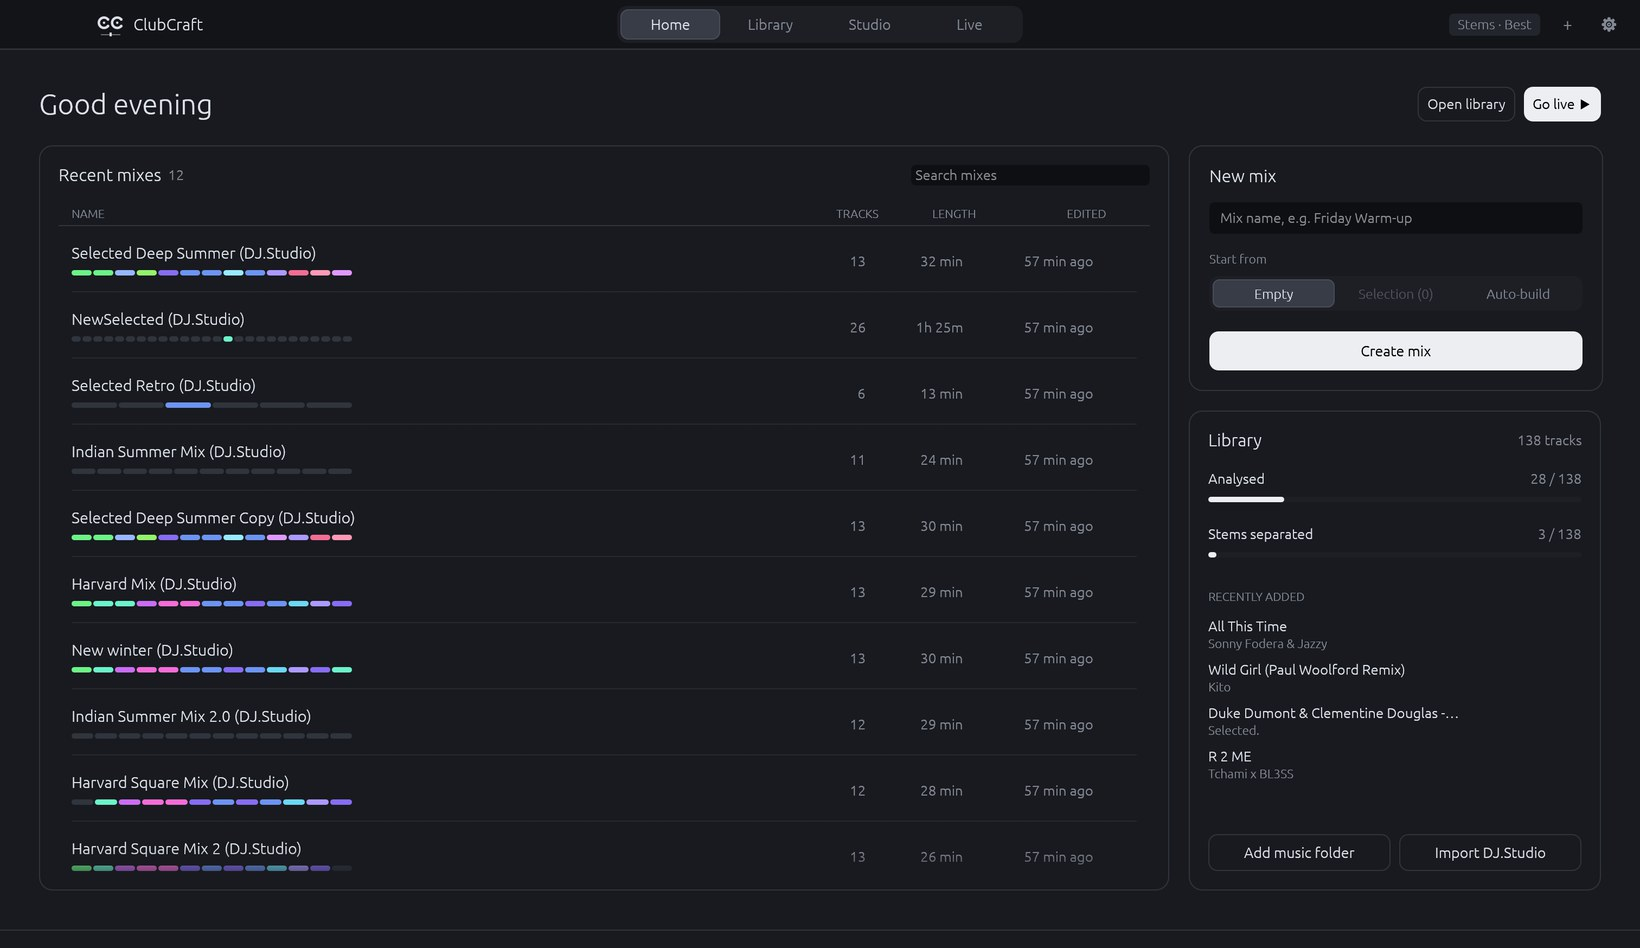
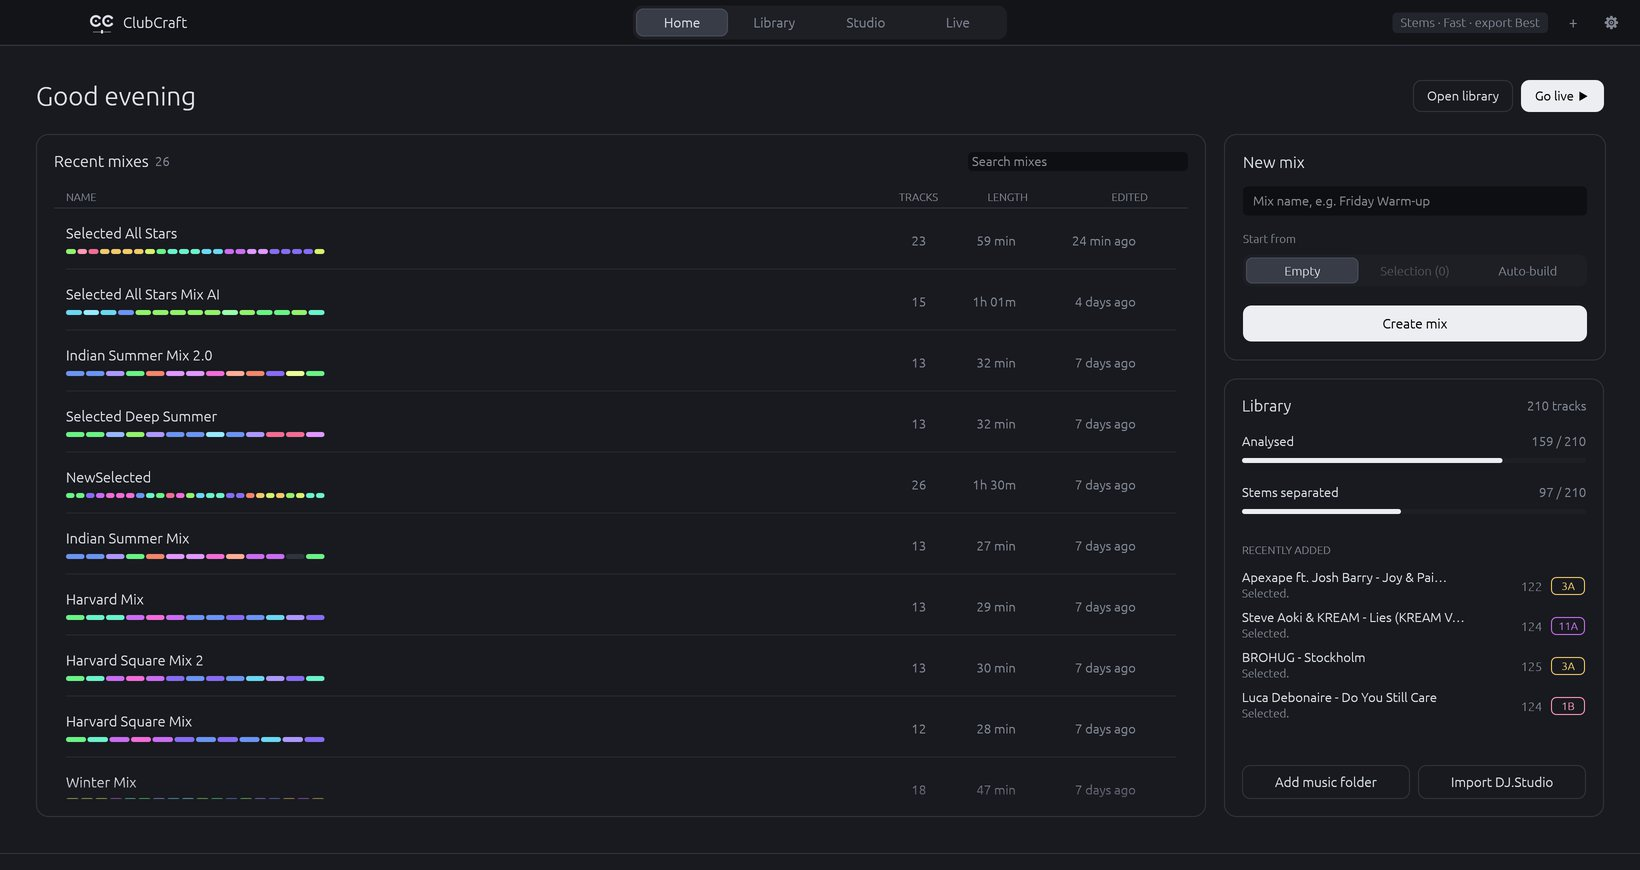
README: new screenshots and the features of v0.3.3
All screenshots retaken on a 23-track mix, and a new one of a vocal sample
with its curves. The text covers sample lanes (linked copies, trimming and
extending, curves, locks), the new transition effects and curve editing,
mashups both ways round, and finer drags.

diff --git a/README.md b/README.md
@@ -21,9 +21,9 @@
 <br>
 
 <p align="center">
-  <img src="docs/images/transition.jpg" alt="The ClubCraft studio zoomed in on the first transition of a 28-minute mix: the outgoing and incoming track on two beat-matched lanes inside the transition frame, and the transition editor below with presets, categories and Off, Swap, Crossfade or Full for drums, bass, melody and vocals" width="100%">
+  <img src="docs/images/transition.jpg" alt="The ClubCraft studio zoomed in on the third transition of a 23-track mix: inside the transition frame both tracks are split into drums, bass, melody and vocals rows, each with its curve and an on/off button, the bass swapping halfway; below, the transition editor with presets, categories and Off, Swap, Crossfade, Full or Manual for every stem" width="100%">
   <br>
-  <sub>A 28-minute mix imported from DJ.Studio, zoomed in on its first stem blend with the transition editor open.</sub>
+  <sub>A 59-minute, 23-track mix zoomed in on a bass swap: every stem of both tracks has its own row and curve, and the transition editor is open below.</sub>
 </p>
 
 <p align="center">
@@ -63,23 +63,23 @@
 
 ## Features
 
-Every screenshot here is the real app at work on a mix imported from DJ.Studio. ClubCraft captures them itself through its developer control channel.
+Every screenshot here is the real app at work on a 23-track mix. ClubCraft captures them itself through its developer control channel.
 
 <table>
   <tr>
     <td width="50%" valign="top">
-      <img src="docs/images/studio.jpg" alt="The studio timeline: two deck lanes with mixer headers (fader, solo, mute, EQ and filter knobs), stem-coloured clips with key badges, transition markers on their own strip, two sample lanes, the tempo lane gliding between 122 and 138 BPM, and the bottom bar with the transport, the Stems missing button and the panel tabs" width="100%">
+      <img src="docs/images/studio.jpg" alt="The studio timeline of a 59-minute mix: two deck lanes with mixer headers (fader, solo, mute, EQ and filter knobs), 23 stem-coloured clips with key badges, transition markers on their own strip, vocal samples on the first sample lane, the tempo lane gliding between 122 and 127 BPM, and the bottom bar with the transport and the panel tabs" width="100%">
       <br>
-      <sub>Two deck lanes with their own mixers, two sample lanes, and the tempo gliding between 122 and 138 BPM.</sub>
+      <sub>A whole set at a glance: two deck lanes with their own mixers, vocal samples on a sample lane, and the tempo gliding between 122 and 127 BPM.</sub>
       <h3>Design the whole set</h3>
       Drop tracks in and <b>✨ Harmonize</b> orders them by Camelot key, tempo and energy arc, using simulated annealing over the whole set. Mix-in and mix-out points come from the analysed structure, and transition lengths fit the intro and outro of each pair.
       <br><br>
-      Slide tracks and transitions by bars, collapse lanes, solo or mute them, shape a lane with its EQ and filter, and render the result to WAV with a cue sheet, faster than real time. Everything else lives in a DJ.Studio-style bar at the bottom: the transport, plus tabs for Zoom, Playlist (a sortable track table with keys, harmonic matches, energy and BPM), Transition, Track, Mashups and Master. Two <b>sample lanes</b> take one-shots, loops and FX dropped from Finder. Drag across a track's waveform to select a range and right-click to copy it to a sample lane: the full sound, or just its drums, bass, melody, vocals, instrumental or drums + bass (⌘L, ⇧⌘1–6). The copy is stretched and key-shifted like the mix plays it, or you can save it as a WAV. Every edit can be undone, and <b>savepoints</b> keep versions of a mix to switch between (none is lost on the way); <b>Duplicate</b> copies a mix to try something out.
+      Slide tracks by bars and transitions by beats (finer when you zoom in, Shift for free moves), select several clips with a box or Shift-click, collapse lanes, solo or mute them, shape a lane with its EQ and filter, and render the result to WAV with a cue sheet, faster than real time. Everything else lives in a DJ.Studio-style bar at the bottom: the transport, plus tabs for Zoom, Playlist (a sortable track table with keys, harmonic matches, energy and BPM; tracks joined by locked transitions are linked and drag as one group), Transition, Track, Mashups and Master. Every edit can be undone, and <b>savepoints</b> keep versions of a mix to switch between (none is lost on the way); <b>Duplicate</b> copies a mix to try something out.
     </td>
     <td width="50%" valign="top">
-      <img src="docs/images/live.jpg" alt="The live view during an automix transition: two scrolling stem-coloured waveforms in phase, deck A playing Define (Club Mix) and deck B Alone, both at 122.5 BPM with eight auto-generated hot cues, the mixer in the middle with the automix moving the channel faders, and the browser with the automix queue below" width="100%">
+      <img src="docs/images/live.jpg" alt="The live view playing a studio mix with automix: two scrolling stem-coloured waveforms, deck A playing MK - 17 at 122 BPM and deck B cued at the Mix In of Do You Still Care, both with eight auto-generated hot cues, the mixer in the middle with AUTOMIX on, and the browser with the mix's tracks and the automix queue below" width="100%">
       <br>
-      <sub>Automix in the middle of a transition: both decks phase-locked, every hot cue placed by the analysis.</sub>
+      <sub>A studio mix on the live decks: automix plays it at its mix points, and every hot cue was placed by the analysis.</sub>
       <h3>Then play it live</h3>
       VirtualDJ-style decks: CDJ cue logic, eight hot cues, loops and loop rolls, beat jump, slip, keylock, key shift and match key, sync with a phase meter, stem knobs and pads (acapella, instrumental, drums only), three-band EQ with kill, filter and beat-synced FX.
       <br><br>
@@ -88,7 +88,7 @@ Every screenshot here is the real app at work on a mix imported from DJ.Studio. 
   </tr>
   <tr>
     <td width="50%" valign="top">
-      <img src="docs/images/library.jpg" alt="The library sorted by BPM: tracks with stems marked by a green dot, BPM, Camelot key, energy, length and the number of generated cues" width="100%">
+      <img src="docs/images/library.jpg" alt="The library showing a mix's 23 tracks in mix order: tracks with stems marked by a green dot, BPM, Camelot key, energy, length, genre and the number of generated cues" width="100%">
       <br>
       <sub>The library: BPM, key, energy and cues for every analysed track.</sub>
       <h3>A library that analyses itself</h3>
@@ -97,7 +97,7 @@ Every screenshot here is the real app at work on a mix imported from DJ.Studio. 
       Imports your <b>DJ.Studio</b> projects: mix points, cues, transitions with their curves, stem automation and DJ.Studio's timing. The importer is built clean-room, from DJ.Studio's own files and exports only ([how it works](docs/interop/djstudio.md)). Exports beat grids, keys, hot cues and automix points to <b>VirtualDJ</b>.
     </td>
     <td width="50%" valign="top">
-      <img src="docs/images/home.jpg" alt="The home page: recent mixes as a searchable list with their key colours, track count, length and last edit on the left; a New mix panel (start empty, from selected tracks, a playlist or auto-built from the library) and the library status with analysis and stem progress and recently added tracks on the right" width="100%">
+      <img src="docs/images/home.jpg" alt="The home page: recent mixes as a searchable list with their key colours, track count, length and last edit on the left; a New mix panel (start empty, from selected tracks or auto-built from the library) and the library status with analysis and stem progress and recently added tracks on the right" width="100%">
       <br>
       <sub>The home page: recent mixes on the left, a new mix and the library status on the right.</sub>
       <h3>Start anywhere</h3>
@@ -114,13 +114,28 @@ Every screenshot here is the real app at work on a mix imported from DJ.Studio. 
     </td>
     <td width="50%" valign="top">
       <h3>Transitions you can read</h3>
-      Pick a preset (Stem blend, Bass swap, Crossfade, Vocal over, Mashup, Filter out, Echo out, Cut), then adjust it the way DJ.Studio does it: for every stem <b>Off · Swap · Crossfade · Full</b>, the same for each EQ band, plus volume, filter and echo choices. Or draw it in the timeline, like in DJ.Studio: a selected transition splits both tracks into drums, bass, melody and vocals rows, each with its curve. Press on a line to add a point, drag points (they stop at their neighbours; double-click removes one), slide a hard switch sideways by its edge, and switch a stem off on either side with its button. The same works for the volume, each EQ band and the filter. Drag a transition's bar to move it by beats (Shift: quarter beats) and its edges to change its length; the curves keep their shape. Lock a transition and harmonizing or recomputing mix points leaves it alone.
+      Pick a preset (Stem blend, Bass swap, Crossfade, Vocal over, Filter out, Echo out, Cut, and Mashup with the old or the new vocals), then adjust it the way DJ.Studio does it: for every stem <b>Off · Swap · Crossfade · Full</b>, the same for each EQ band, plus volume and effects: filter, echo, reverb and noise risers, and <b>Rhythm FX</b> with loops and rolls, a vinyl brake and a side-chain pump. They play in the preview, the export and automix, with or without stems.
+      <br><br>
+      Or draw it in the timeline, like in DJ.Studio: a selected transition splits both tracks into drums, bass, melody and vocals rows, each with its curve, and the effects it uses get a row each. Press on a line to add a point, drag points between their neighbours, bend a slope by its handle, double-click a slope to make it a hard switch, ⌘-drag to draw flat steps on the grid, and switch a stem off on either side with its button. A hard switch slides sideways as one, and the other track's switch goes along, so a swap stays a swap. The same works for the volume and each EQ band. Drag a transition's bar to move it and its edges to change its length; the curves keep their shape. Lock a transition and harmonizing or recomputing mix points leaves it alone.
       <br><br>
       To switch stems off in any part of a song, drag across the waveform and right-click: mute drums, bass, melody or vocals there, or make that part an acapella or an instrumental.
       <br><br>
       Stems for a mix's stem transitions are separated automatically, only for the transition windows and at the Fast quality, so they are ready in seconds per transition. Until then the stem curves are imitated with volume and EQ: each transition keeps its own shape, and the timeline shows it marked "no stems". An export separates those windows again at the export quality first, not the whole tracks, so a Best export takes a fraction of the time. The editor also warns when the outgoing track fades out before its transition ends, or when the incoming track comes in much quieter.
+    </td>
+  </tr>
+  <tr>
+    <td width="50%" valign="top">
+      <img src="docs/images/samples.jpg" alt="A vocal sample on the first sample lane under a transition: the clip, copied from Come Find Me and locked to it, is selected and shows its volume curve fading in and out over its waveform, with a selector for Volume, Low, Mid, High and Effects in its title bar" width="100%">
+      <br>
+      <sub>The vocals of a track copied to a sample lane, locked to it and faded in with their own volume curve.</sub>
+      <h3>Samples that follow the music</h3>
+      Two <b>sample lanes</b> take one-shots, loops and FX dropped from Finder. Drag across a track's waveform to select a range and right-click to copy it to a sample lane: the full sound, or just its drums, bass, melody, vocals, instrumental or drums + bass (⌘L, ⇧⌘1–6). The copy is stretched and key-shifted like the mix plays it, or you can save it as a WAV.
+      <br><br>
+      A copy stays linked to its track. Drag its edges to cut it shorter or to bring in more of the track before or after it. When the track gets better stems (or an export separates that part at the export quality), the clip is cut again from them. It's locked to its track, so it moves along when the track moves in the mix. Every clip has its own volume, EQ, filter and effect curves, drawn like a transition's, and each sample lane plays through a channel strip of its own.
+    </td>
+    <td width="50%" valign="top">
       <h3>Keyboard first</h3>
-      <b>Studio:</b> Space play · ← → bar (⇧ 8 bars) · [ ] transitions · F follow · + − zoom · ⌘Z / ⇧⌘Z undo / redo · ⌘S save.<br>
+      <b>Studio:</b> Space play · ← → bar (⇧ 8 bars) · [ ] transitions · F follow · + − zoom · ⌘Z / ⇧⌘Z undo / redo · ⌘S save · ⌫ remove the selection.<br>
       <b>Live:</b> Z X C and M , . cue/play/sync · 1–8 hot cues (⇧ deck B) · ← → crossfader.<br>
       MIDI controllers map with MIDI learn.
     </td>
@@ -131,13 +146,14 @@ Every screenshot here is the real app at work on a mix imported from DJ.Studio. 
 
 ## Find mashups
 
-<p align="center"><img src="docs/images/mashups.jpg" alt="The mashup finder in the studio's bottom section: the vocals of Gorgon City's Mitsubishi matched against the library; every row shows the instrumental's bars, the vocal phrase, the key shift and tempo change, a strip with the fit of every bar, the rule score and the AI score, with preview, new mix and insert buttons" width="100%"></p>
+<p align="center"><img src="docs/images/mashups.jpg" alt="The mashup finder in the studio's bottom section: the vocals of MK and Clementine Douglas' Come Find Me matched against the library; every row shows where in the instrumental it goes (bars, time and section, such as a drop), the chorus it uses, the key shift and tempo change, a strip with the fit of every bar, the rule score and the AI score, with preview, new mix and insert buttons" width="100%"></p>
 
-Want the vocals of one track over another? The **🎤 Mashups** tab of the studio's bottom bar opens the finder. You can also start it from the track inspector, the library's context menu or ⇧⌘M. It searches your library for the instrumentals that carry those vocals, and tells you where.
+Want the vocals of one track over another? The **🎤 Mashups** tab of the studio's bottom bar opens the finder. You can also start it from the track inspector, the library's context menu or ⇧⌘M. It searches your library both ways round: the instrumentals that carry a track's vocals, or the vocals that fit over its instrumental. And it tells you where.
 
-- **Where it fits, bar by bar.** For every 16-bar placement it compares the vocal notes with the instrumental's bass and chords, using a consonance table that knows a vocal a major seventh above a chord is colour but a semitone above it clashes. It also weighs masking by a loud melody in the vocal range, leftover vocals of the backing track, and the tempo and key change needed. On real tracks the original pairing beats its own ±1–2 semitone shifts 93 % of the time, where plain key matching or chroma similarity (as in AutoMashUpper) manages 84 %.
+- **Whole phrases in the right place.** It takes whole sung phrases (the chorus first, found by the structure model) and tries them where the other track's sections start: a chorus on a drop, a verse on a breakdown or groove, never on an intro or outro.
+- **Where it fits, bar by bar.** For every placement it compares the vocal notes with the instrumental's bass and chords, using a consonance table that knows a vocal a major seventh above a chord is colour but a semitone above it clashes. It also weighs masking by a loud melody in the vocal range, leftover vocals of the backing track, and the tempo and key change needed. On real tracks the original pairing beats its own ±1–2 semitone shifts 93 % of the time, where plain key matching or chroma similarity (as in AutoMashUpper) manages 84 %.
 - **An AI second opinion.** The best 20 candidates are rendered as the mix would play them, with the vocals shifted and stretched, and [COCOLA](https://github.com/gladia-research-group/cocola) (ICASSP 2025), a network trained on separated stems, listens to each. Blending both scores ranks the right match higher than either alone (84 % against random placements, from 78 %).
-- **Hear it, then use it.** ▶ plays the vocals over the instrumental straight away. **New mix** makes a two-track mashup, and **Insert** puts the instrumental after the vocal track in the open mix. Both use the new **Mashup** transition: the instrumentals swap within a bar and the vocals keep singing for the whole phrase.
+- **Hear it, then use it.** ▶ plays the vocals over the instrumental straight away. **New mix** makes a two-track mashup, and **Insert** puts the instrumental after the vocal track in the open mix. Both use a **Mashup** transition: the instrumentals swap within a bar and the vocals keep singing for the whole phrase, the old vocals over the new track or the new vocals over the old one.
 - **For transitions too.** In the transition editor, **🎤 Find vocal-over point** finds where the outgoing vocals sound best over the incoming track and sets the transition with one click.
 
 ## Everything in the box
@@ -154,7 +170,7 @@ Want the vocals of one track over another? The **🎤 Mashups** tab of the studi
     </td>
     <td width="33%" valign="top">
       <h4>🗺 Studio</h4>
-      Harmonic ordering (key, BPM, energy arc) · automatic mix points · beat-locked timeline with a tempo glide or a fixed BPM · per-lane gain, solo, mute, EQ and filter · 7 transition styles plus custom curves · lazy, memory-bounded preview · WAV export (16/24/32-bit) with a cue sheet
+      Harmonic ordering (key, BPM, energy arc) · automatic mix points · beat-locked timeline with a tempo glide or a fixed BPM · per-lane gain, solo, mute, EQ and filter · 9 transition styles plus custom curves with bends and hard switches · two sample lanes with their own curves and effects · lazy, memory-bounded preview · WAV export (16/24/32-bit) with a cue sheet
     </td>
   </tr>
   <tr>
@@ -164,7 +180,7 @@ Want the vocals of one track over another? The **🎤 Mashups** tab of the studi
     </td>
     <td width="33%" valign="top">
       <h4>🔊 Mixer and FX</h4>
-      3-band isolator EQ with kill · resonant one-knob filter · crossfader curves · headphone cue on outputs 3/4 or a split cable · master limiter · recording · echo, ping-pong, reverb, flanger, filter LFO, gate, roll, bitcrusher, brake · per-stem echo-out
+      3-band isolator EQ with kill · resonant one-knob filter · crossfader curves · headphone cue on outputs 3/4 or a split cable · master limiter · recording · echo, ping-pong, reverb, flanger, filter LFO, gate, roll, bitcrusher, brake · per-stem echo-out · transition effects: reverb send, noise sweeps, beat loops, vinyl brake, side-chain pump
     </td>
     <td width="33%" valign="top">
       <h4>🔗 Interop</h4>
@@ -215,7 +231,7 @@ The cue generator places Mix In at least 32 beats before the first drop or vocal
 - **Exact timing:** tempo is piecewise linear in mix beats and integrated analytically, which keeps overlapping tracks beat-locked to within a millisecond.
 - **Clean-room:** ClubCraft is independent. Other DJ software is only studied through its files, its output and public documentation, never through its program code, and none of its code, models or assets are used. The DJ.Studio importer was rebuilt under that rule; see [docs/clean-room.md](docs/clean-room.md).
 - **Never crash:** no `unwrap`, `expect` or `panic` outside tests, and unsafe code only in five FFI modules, each block with a `SAFETY` note. Clippy enforces both. The contributor rules are in [AGENTS.md](AGENTS.md).
-- **Tested:** 84 unit and integration tests, plus evaluations against Python Demucs and a 137-track analysis corpus.
+- **Tested:** 154 unit and integration tests, plus evaluations against Python Demucs and a 137-track analysis corpus.
 
 ## Talk to it: built-in MCP server
 
